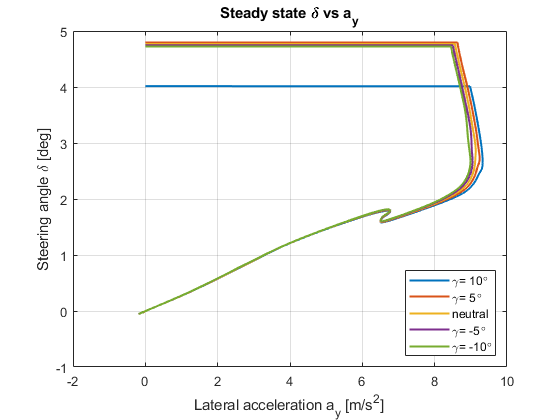
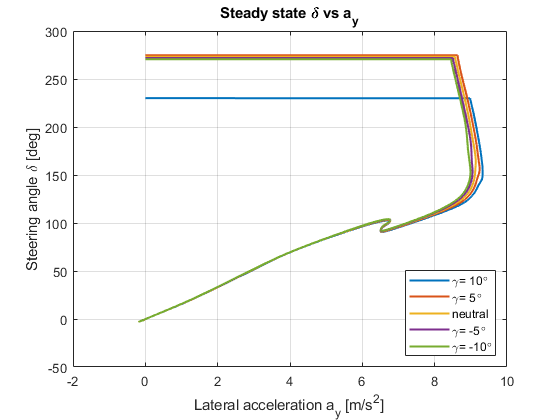
updated

diff --git a/DATA/Nikhil/Circle_Eight_Data/SSA_vs_SWA/plot_ssa_swa.m b/DATA/Nikhil/Circle_Eight_Data/SSA_vs_SWA/plot_ssa_swa.m
@@ -78,12 +78,12 @@ legend('\gamma= 10\circ','\gamma= 5\circ','neutral','\gamma= -5\circ','\gamma= -
 
 %%
 figure(4);
-plot(ay_10(700:end), rad_10(700:end),'LineWidth',1.5);
+plot(ay_10(700:end), rad_10(700:end)*180/pi,'LineWidth',1.5);
 hold on;
-plot(ay_5(700:end), rad_5(700:end),'LineWidth',1.5);
-plot(ay_neu(700:end), rad_neu(700:end),'LineWidth',1.5);
-plot(ay_neg5(700:end), rad_neg5(700:end),'LineWidth',1.5);
-plot(ay_neg10(700:end), rad_neg10(700:end),'LineWidth',1.5);
+plot(ay_5(700:end), rad_5(700:end)*180/pi,'LineWidth',1.5);
+plot(ay_neu(700:end), rad_neu(700:end)*180/pi,'LineWidth',1.5);
+plot(ay_neg5(700:end), rad_neg5(700:end)*180/pi,'LineWidth',1.5);
+plot(ay_neg10(700:end), rad_neg10(700:end)*180/pi,'LineWidth',1.5);
 hold off;
 ylabel("Steering angle \delta [deg]");
 xlabel("Lateral acceleration a_y [m/s^2]");
